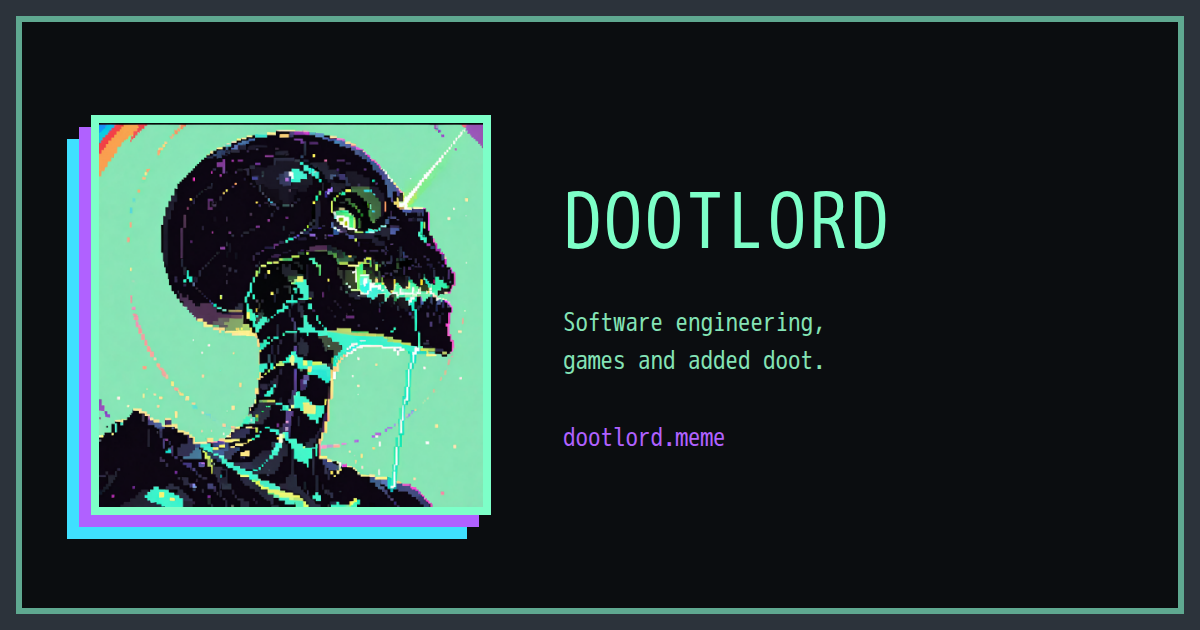
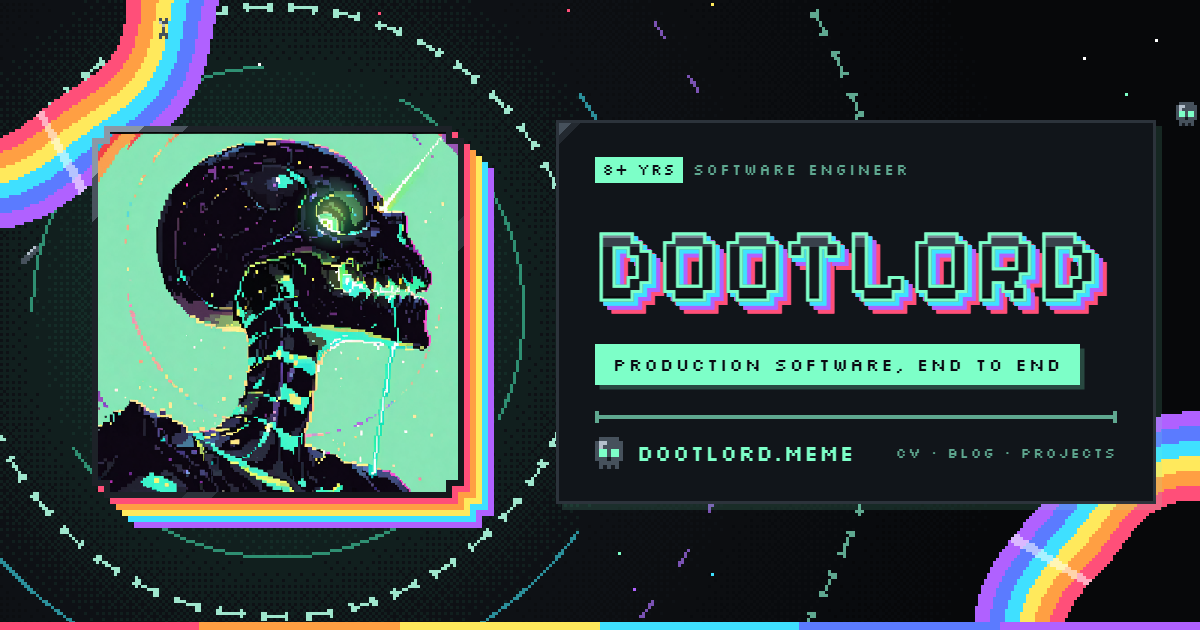
Cleaned up the social preview png

diff --git a/tools/social-preview.html b/tools/social-preview.html
@@ -3,44 +3,137 @@
 <head>
   <meta charset="utf-8">
   <title>DOOTLORD social preview</title>
+  <meta name="robots" content="noindex">
+  <!--
+    Source for assets/img/social-preview.png (1200 x 630), the image shown when
+    the site is shared. Built from the site's own CSS, sprites and background,
+    so it changes with them. To re-render, serve the repo root and screenshot:
+
+      python -m http.server 8000
+      msedge --headless=new --hide-scrollbars --force-device-scale-factor=1 --window-size=1200,630 \
+        --virtual-time-budget=5000 --screenshot=assets/img/social-preview.png \
+        http://localhost:8000/tools/social-preview.html
+  -->
+  <link rel="preconnect" href="https://fonts.googleapis.com">
+  <link rel="preconnect" href="https://fonts.gstatic.com" crossorigin>
+  <link href="https://fonts.googleapis.com/css2?family=JetBrains+Mono:wght@400;700&family=Pixelify+Sans:wght@700&family=Silkscreen:wght@400;700&display=swap" rel="stylesheet">
+  <link rel="stylesheet" href="../assets/css/style.css">
   <style>
-    * { box-sizing: border-box; }
-    body {
-      margin: 0;
-      width: 1200px;
-      height: 630px;
-      background: #0b0d10;
-      color: #84e3b6;
-      font-family: monospace;
-    }
-    main {
+    /* fixed sizes in place of the site's viewport-relative ones */
+    :root { --u: 6px; --card: 372px; }
+    html, body { width: 1200px; height: 630px; overflow: hidden; }
+
+    .og {
+      position: relative;
       display: flex;
       align-items: center;
+      gap: 92px;
       height: 100%;
-      padding: 75px;
-      border: 16px solid #2c333b;
-      box-shadow: inset 0 0 0 6px #5fa890;
+      padding: 0 0 6px 92px;
     }
-    img {
-      width: 400px;
-      height: 400px;
-      border: 8px solid #7dffc8;
-      box-shadow: -12px 12px #b061ff, -24px 24px #3fe0ff;
+    .og .card { flex: none; cursor: default; }
+    .og .eye { opacity: .5; }
+
+    .og-copy { position: relative; width: 600px; padding: 34px 36px 32px; }
+
+    .og .kicker { font-size: 15px; }
+
+    .og .title {
+      margin: 18px 0 0;
+      font-size: 102px;
+      line-height: 1;
+      cursor: default;
     }
-    .copy { padding-left: 72px; }
-    h1 { font-size: 76px; letter-spacing: 3px; margin: 0 0 28px; color: #7dffc8; }
-    p { font-size: 25px; line-height: 1.5; margin: 0; }
-    .url { color: #b061ff; margin-top: 40px; }
+
+    .og .tag { margin-top: 26px; font-size: 18px; }
+    .og .tag span { min-width: 0; }
+
+    .og .bone-rule { margin-top: 30px; }
+
+    .og .og-foot {
+      display: flex;
+      align-items: center;
+      gap: 14px;
+      margin: 18px 0 0;
+      font-size: 22px;
+      letter-spacing: .06em;
+      color: var(--neon);
+    }
+    .og-skull {
+      width: 28px;
+      height: 32px;
+      background: var(--img-skull) center / contain no-repeat;
+    }
+    .og-foot small {
+      margin-left: auto;
+      font-size: 14px;
+      letter-spacing: .14em;
+      text-transform: uppercase;
+      color: var(--bone);
+    }
+
+    /* the blog's rainbow reading bar, along the bottom edge */
+    .og-rainbow {
+      position: absolute;
+      left: 0;
+      right: 0;
+      bottom: 0;
+      height: 8px;
+      background: linear-gradient(90deg,
+        var(--red) 0 16.6%, var(--orange) 16.6% 33.3%, var(--yellow) 33.3% 50%,
+        var(--cyan) 50% 66.6%, #5b7bff 66.6% 83.3%, var(--purple) 83.3%);
+    }
   </style>
 </head>
 <body>
-  <main>
-    <img src="../assets/img/dootlord.png" alt="">
-    <div class="copy">
-      <h1>DOOTLORD</h1>
-      <p>Software engineering,<br>games and added doot.</p>
-      <p class="url">dootlord.meme</p>
+  <canvas id="bg" aria-hidden="true"></canvas>
+
+  <main class="og">
+    <span class="card" id="card">
+      <span class="layer" style="--k:5; --c:#b061ff"></span>
+      <span class="layer" style="--k:4; --c:#3fe0ff"></span>
+      <span class="layer" style="--k:3; --c:#ffe95c"></span>
+      <span class="layer" style="--k:2; --c:#ff9f43"></span>
+      <span class="layer" style="--k:1; --c:#ff4f79"></span>
+      <span class="frame">
+        <span class="art">
+          <img src="../assets/img/dootlord.png" width="460" height="460" alt="">
+          <span class="eye"></span>
+        </span>
+      </span>
+    </span>
+
+    <div class="og-copy panel">
+      <p class="kicker"><span>8+ yrs</span>software engineer</p>
+      <h1 class="title gloss">DOOTLORD</h1>
+      <p class="tag"><span>Production software, end to end</span></p>
+      <span class="bone-rule" aria-hidden="true"></span>
+      <p class="og-foot"><span class="og-skull" aria-hidden="true"></span>dootlord.meme<small>CV · Blog · Projects</small></p>
     </div>
   </main>
+
+  <div class="og-rainbow" aria-hidden="true"></div>
+
+  <script type="module">
+    import { createBackground } from '../assets/js/bg.js';
+    import { installSprites } from '../assets/js/cv.js';
+
+    installSprites();
+    await document.fonts.ready;
+
+    // headless browsers can report a viewport shorter than the screenshot;
+    // pin it so the background covers the whole image
+    for (const [k, v] of [['innerWidth', 1200], ['innerHeight', 630]]) {
+      Object.defineProperty(window, k, { value: v, configurable: true });
+    }
+
+    // the splash background, frozen with everything switched on and the
+    // rings and glow centred on the card
+    const bg = createBackground(document.getElementById('bg'));
+    const r = document.getElementById('card').getBoundingClientRect();
+    bg.setCenter(r.left + r.width / 2, r.top + r.height / 2, r.width / 2);
+    Object.assign(bg.state, { rings: 1, rainbow: 1, sparks: 1, dim: 0 });
+    bg.renderStatic();
+  </script>
 </body>
 </html>

diff --git a/readme.md b/readme.md
@@ -117,5 +117,5 @@ static pages, manifest and Markdown stay in sync.
 - `assets/css/style.css` — shared layout and pixel styling, including a plain print stylesheet
 - `assets/css/blog.css` — blog list and post styling
 - `assets/vendor/` — GSAP 3.13 (ScrambleText, ScrollTrigger, ScrollTo), marked and highlight.js, served locally
-- `assets/img/social-preview.png` — default social sharing image; `tools/social-preview.html` is its source
+- `assets/img/social-preview.png` — default social sharing image; `tools/social-preview.html` is its source, built from the site's own CSS and background (re-render steps are in a comment at its top)
 - `audio/` — doot sounds, listed in `content.js`
